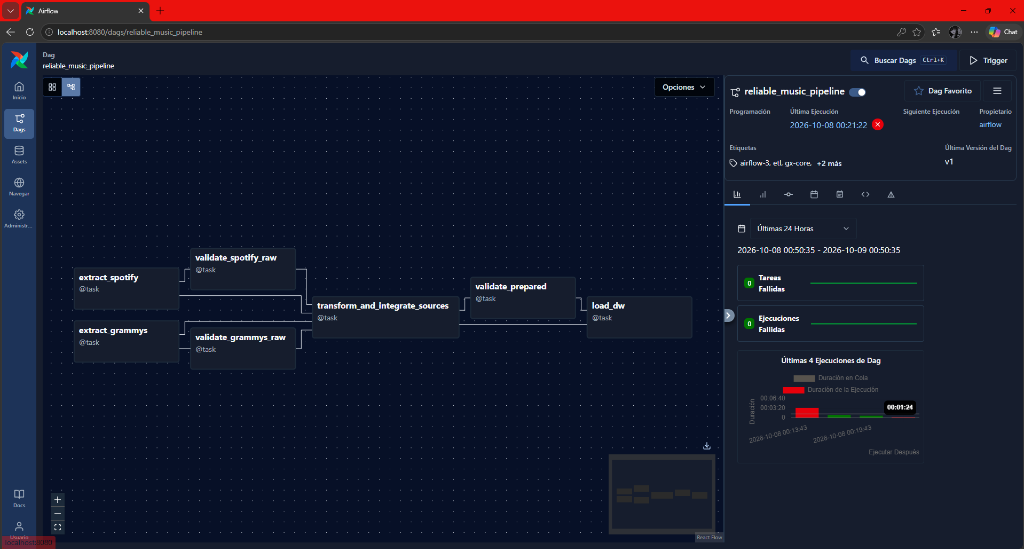
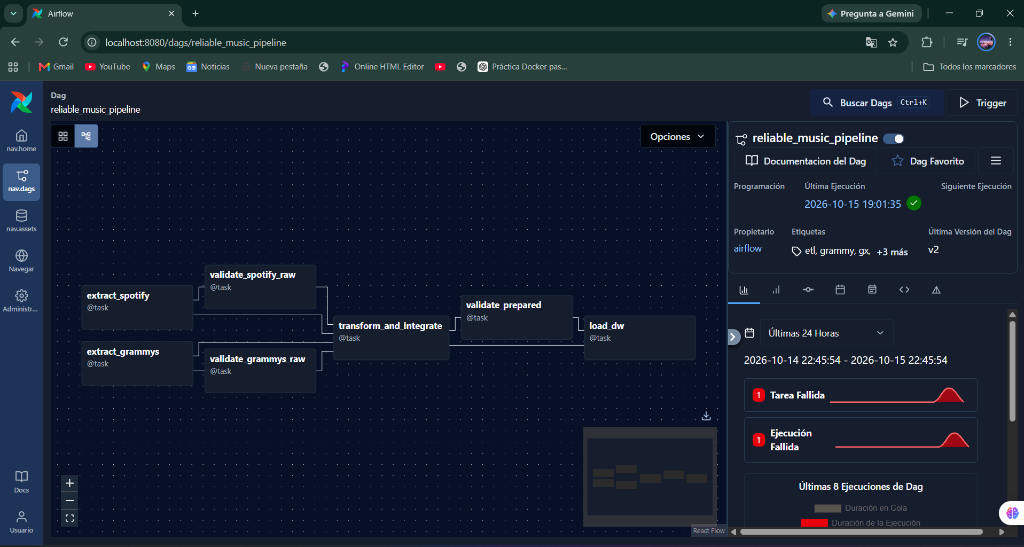
docs: update airflow_graph_view screenshot and format visual evidence exactly like classmate example

diff --git a/README.es.md b/README.es.md
@@ -653,10 +653,8 @@ El **Test A** demuestra la ejecución integral y limpia del pipeline de extremo 
 * **Tiempo Total de Ejecución:** **31.52 segundos**.
 * **Evidencia de Logs:** Preservada en [`docs/evidence/test_a_run_manifest.json`](docs/evidence/test_a_run_manifest.json).
 * **Evidencia Visual:**
-  * **Vista de Grafo en Airflow (DAG Topology & Gates):**
-    ![Airflow Graph View](docs/images/airflow_graph_view.png)
-  * **Vista de Cuadrícula en Airflow (All 7 Tasks Green):**
-    ![Airflow Grid View](docs/images/airflow_grid_view.png)
+  ![Airflow Graph View](docs/images/airflow_graph_view.png)
+  ![Airflow Grid View](docs/images/airflow_grid_view.png)
 * **Conteos Reconciliados en Data Warehouse (MySQL `spotify_grammy_dw`):**
   * `dim_artist`: **17,639 filas**
   * `dim_genre`: **114 filas**
@@ -695,8 +693,7 @@ El **Test B** certifica la eficacia del patrón **Circuit Breaker** mediante la 
   * `load_dw`: **`upstream_failed`** (Bloqueado)
 * **Evidencia de Logs:** Preservada en [`docs/evidence/test_b_run_manifest.json`](docs/evidence/test_b_run_manifest.json) y [`docs/evidence/test_b_spotify_raw_validation_result.json`](docs/evidence/test_b_spotify_raw_validation_result.json).
 * **Evidencia Visual:**
-  * **Log Forense de Interrupción en Airflow (Circuit Breaker Triggered):**
-    ![Airflow Controlled Failure Task Log](docs/images/airflow_failure_task_log.png)
+  ![Airflow Controlled Failure Task Log](docs/images/airflow_failure_task_log.png)
 
 ```
 [LOG FORENSE DE FALLO DE VALIDACIÓN]
@@ -774,11 +771,9 @@ La capa analítica conecta **Microsoft Power BI** directamente al Data Warehouse
 
 ### Capturas del Tablero y Modelo Dimensional (Power BI)
 
-* **Tablero Analítico Ejecutivo en Power BI (Visuales REQ-01, REQ-02, REQ-03):**
-  ![Power BI Analytics Dashboard](docs/images/powerbi_dashboard.png)
+![Power BI Analytics Dashboard](docs/images/powerbi_dashboard.png)
 
-* **Modelo de Datos en Esquema en Estrella (Kimball Star Schema):**
-  ![Power BI Star Schema Data Model](docs/images/powerbi_model_schema.png)
+![Power BI Star Schema Data Model](docs/images/powerbi_model_schema.png)
 
 ### Visual 1: Reconocimiento Grammy vs. Incremento en Popularidad (REQ-01)
 * **Mapeo en Data Warehouse:** `dim_artist.nomination_tier` $\times$ DAX `[Promedio_Popularidad]`

diff --git a/README.md b/README.md
@@ -653,10 +653,8 @@ When a Great Expectations gatekeeper detects a `CRITICAL` contract violation:
 * **Total Wall-Clock Execution Duration:** **31.52 seconds**.
 * **Log Evidence:** Preserved in [`docs/evidence/test_a_run_manifest.json`](docs/evidence/test_a_run_manifest.json).
 * **Visual Evidence:**
-  * **Airflow Graph View (DAG Topology & Gates):**
-    ![Airflow Graph View](docs/images/airflow_graph_view.png)
-  * **Airflow Grid View (All 7 Tasks Green):**
-    ![Airflow Grid View](docs/images/airflow_grid_view.png)
+  ![Airflow Graph View](docs/images/airflow_graph_view.png)
+  ![Airflow Grid View](docs/images/airflow_grid_view.png)
 * **Reconciled Data Warehouse Counts (MySQL `spotify_grammy_dw`):**
   * `dim_artist`: **17,639 rows**
   * `dim_genre`: **114 rows**
@@ -695,8 +693,7 @@ When a Great Expectations gatekeeper detects a `CRITICAL` contract violation:
   * `load_dw`: **`upstream_failed`** (Blocked)
 * **Log Evidence:** Preserved in [`docs/evidence/test_b_run_manifest.json`](docs/evidence/test_b_run_manifest.json) and [`docs/evidence/test_b_spotify_raw_validation_result.json`](docs/evidence/test_b_spotify_raw_validation_result.json).
 * **Visual Evidence:**
-  * **Airflow Circuit Breaker Interception Log (Task Failure Log):**
-    ![Airflow Controlled Failure Task Log](docs/images/airflow_failure_task_log.png)
+  ![Airflow Controlled Failure Task Log](docs/images/airflow_failure_task_log.png)
 
 ```
 [VALIDATION FAILURE FORENSIC LOG]
@@ -774,11 +771,9 @@ The analytical layer connects **Microsoft Power BI** directly to the dimensional
 
 ### Dashboard & Dimensional Model Screenshots
 
-* **Power BI Analytics Dashboard (Visuals REQ-01, REQ-02, REQ-03):**
-  ![Power BI Analytics Dashboard](docs/images/powerbi_dashboard.png)
+![Power BI Analytics Dashboard](docs/images/powerbi_dashboard.png)
 
-* **Star Schema Data Model (Kimball Dimensional Architecture):**
-  ![Power BI Star Schema Data Model](docs/images/powerbi_model_schema.png)
+![Power BI Star Schema Data Model](docs/images/powerbi_model_schema.png)
 
 ### Visual 1: Grammy Recognition vs. Streaming Popularity Lift (REQ-01)
 * **Data Warehouse Mapping:** `dim_artist.nomination_tier` $\times$ DAX `[Avg_Popularity]`
